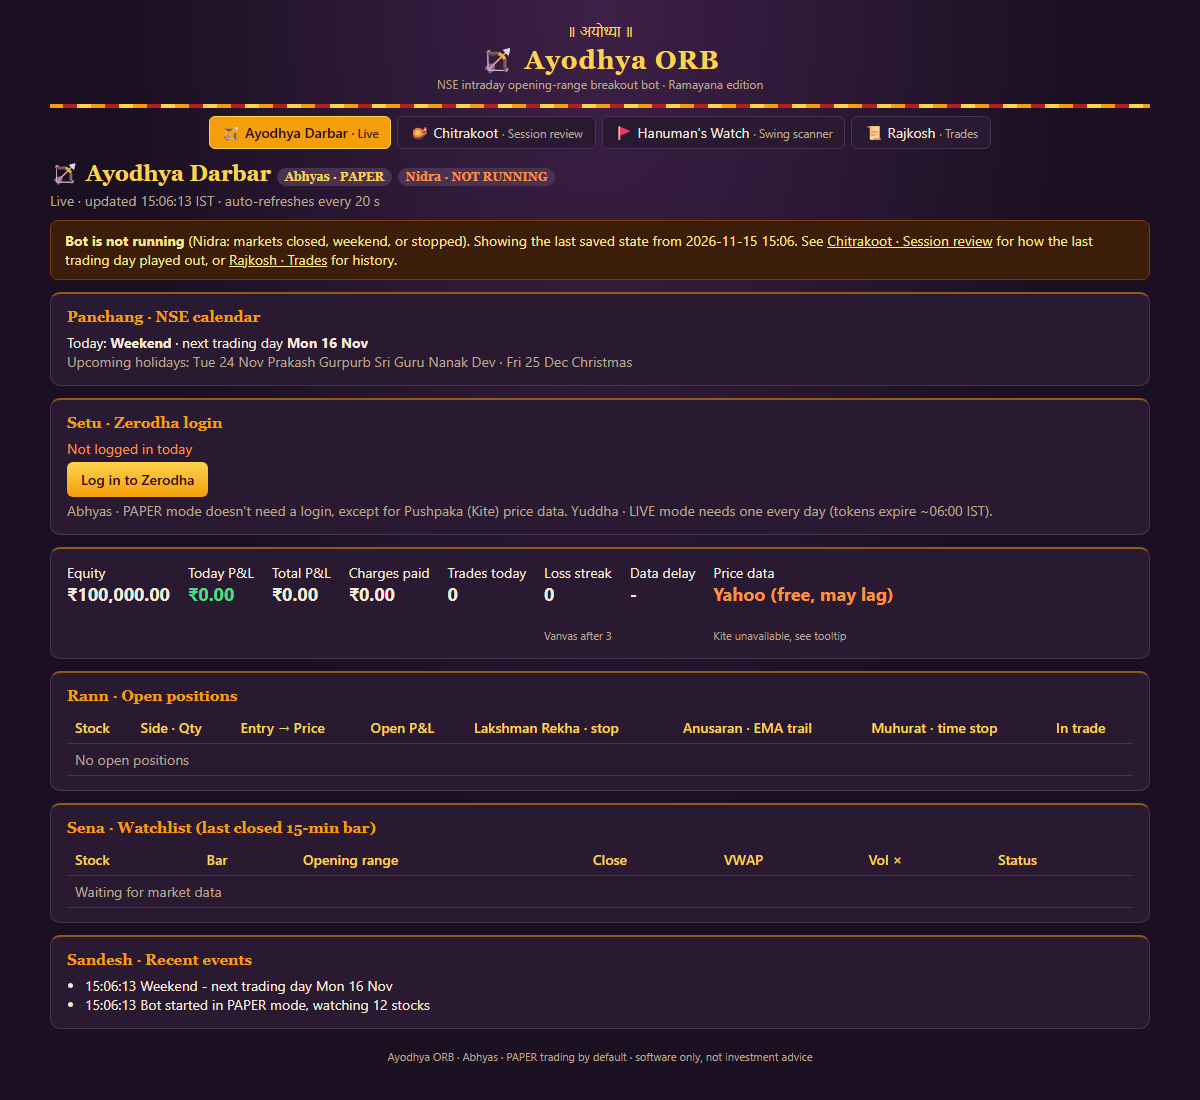
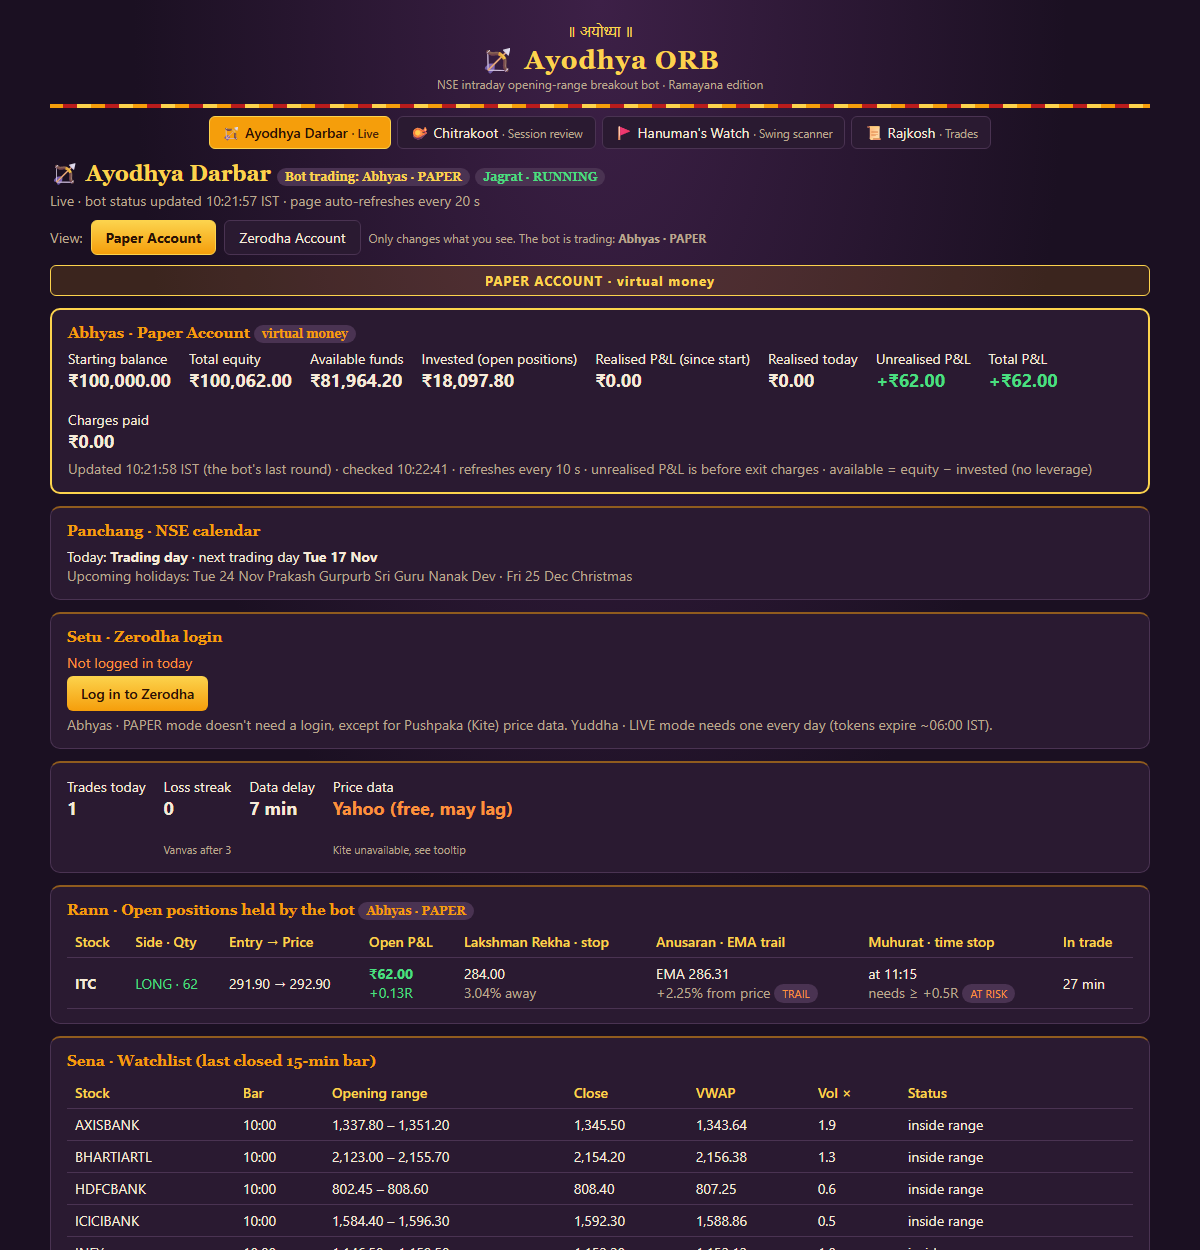
Docs: update dashboard screenshots for v1.4.0
New screenshots of the Live page (Paper Account card and view switch),
Trades, Session review, Swing scanner and a trade chart, plus a new
07-zerodha-account.png in the README section "Paper Account | Zerodha
Account". Taken from a separate dashboard copy with the Zerodha login
patched out; the Zerodha view uses example figures from a fake client, so
no client ID or real balance appears. Same 1200 px width as before.

diff --git a/README.md b/README.md
@@ -104,6 +104,10 @@ switching never changes a setting or places an order.
 - The card refreshes every 10 seconds, shows when it was last updated, and warns about stale data, slow
   prices, login problems and failed refreshes (it keeps the last good values and says when they're from).
 
+![Zerodha Account view (example figures, not a real account)](docs/screenshots/07-zerodha-account.png)
+
+*The Zerodha Account view, with example figures (not a real account).*
+
 | Trades: equity curve and P&L bars | Trade chart |
 |---|---|
 | ![Trades](docs/screenshots/04-trades.png) | ![Trade chart](docs/screenshots/06-trade-chart.png) |
